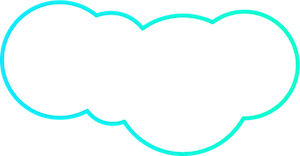
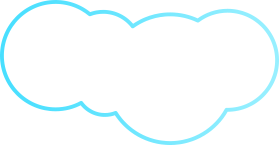
change some images

Changed region(s): [[0.0, 0.0, 1.0, 1.0]]

diff --git a/CoreAnimationDemo/ViewController.swift b/CoreAnimationDemo/ViewController.swift
@@ -33,8 +33,6 @@ class ViewController: UIViewController {
         super.didReceiveMemoryWarning()
         // Dispose of any resources that can be recreated.
     }
-
-    
 }
 
 
@@ -268,37 +266,6 @@ extension ViewController {
             
         }
 
-        
-        
-        
-//        // 下雨暂时考虑动画
-//        let pointCell = CAEmitterCell()
-//        pointCell.name = "point"
-//        pointCell.birthRate = 2.0
-//        pointCell.lifetime = 10.0
-//        pointCell.velocity = 20.0
-//        pointCell.velocityRange = 10
-//        pointCell.yAcceleration = 2
-//        pointCell.alphaSpeed = 10
-//        pointCell.minificationFilterBias = 5.0
-//        //        pointCell.duration = 10.0
-//        pointCell.emissionRange = CGFloat(0.75 * M_PI)
-//        pointCell.spinRange = CGFloat(0.25 * M_PI)
-//        
-//        
-//        pointCell.contents = UIImage(named: "point")!.CGImage
-//        //        pointCell.color = UIColor.init(red: 200, green: 258, blue: 543, alpha: 1.0).CGColor
-//        
-//        //        pointEmitter.shadowOpacity = 1.0
-//        pointEmitter.cornerRadius = 50.0
-//        //        pointCell.enabled = false
-//        //        pointEmitter.shadowOffset = CGSizeMake(0.0, 1.0)
-//        //        pointEmitter.shadowColor = UIColor.redColor().CGColor
-//        pointEmitter.emitterCells = [pointCell]
-//        
-//        self.view.layer.insertSublayer(pointEmitter, atIndex: 0)
-        
-        //        pointCell.kCAEmitterLayerOldestLast
 
     }
     
@@ -306,61 +273,42 @@ extension ViewController {
      cloudy
      */
     func cloudy() {
-//        viewAnimation.layer.position = CGPointMake(10, -10)
-//        viewAnimation.layer.bounds = CGRectMake(0, 0, 300, 156)
-//        viewAnimation.backgroundColor = UIColor.init(patternImage: UIImage(named: "大云")!)
-//        self.view.addSubview(viewAnimation)
-//        
-//        let anim = CABasicAnimation(keyPath: "position")
-//        anim.duration = 2
-//        let fromV = NSValue(CGPoint: CGPointMake(50, 80))
-//        anim.fromValue = fromV
-//        let toV = NSValue(CGPoint: CGPointMake(200, 80))
-//        anim.toValue = toV
-//        anim.delegate = self
-//        anim.removedOnCompletion = false
-//        anim.fillMode = kCAFillModeForwards
-//        viewAnimation.layer.addAnimation(anim, forKey: "translate")
-        
-        //创建方块
+        // 创建云块
         viewAnimation.layer.position = CGPointMake(100, -10)
-        viewAnimation.layer.bounds = CGRectMake(0, 0, 300, 156)
+        viewAnimation.layer.bounds = CGRectMake(0, 0, 279, 145)
         viewAnimation.backgroundColor = UIColor.init(patternImage: UIImage(named: "大云")!)
         self.view.addSubview(viewAnimation)
         
         leftCloudy.layer.position = CGPointMake(150, 80)
-        leftCloudy.layer.bounds = CGRectMake(0, 0, 60, 33)
+        leftCloudy.layer.bounds = CGRectMake(0, 0, 61, 33)
         leftCloudy.backgroundColor = UIColor.init(patternImage: UIImage(named: "左侧云彩")!)
         self.view.addSubview(leftCloudy)
         
         rightCloudy.layer.position = CGPointMake(300, 30)
-        rightCloudy.layer.bounds = CGRectMake(0, 0, 40, 22)
+        rightCloudy.layer.bounds = CGRectMake(0, 0, 33, 19)
         rightCloudy.backgroundColor = UIColor.init(patternImage: UIImage(named: "右侧云彩")!)
         self.view.addSubview(rightCloudy)
         
-        
-        point.layer.position = CGPointMake(self.view.frame.width * 0.5, 150)
-        point.layer.bounds = CGRectMake(0, 0, 10, 10)
+        point.layer.position = CGPointMake(self.view.frame.width * 0.5, 100)
+        point.layer.bounds = CGRectMake(0, 0, 9, 9)
         point.backgroundColor = UIColor.init(patternImage: UIImage(named: "圆点")!)
         self.view.addSubview(point)
-
-        point1.layer.position = CGPointMake(self.view.frame.width * 0.5, 150)
-        point1.layer.bounds = CGRectMake(0, 0, 10, 10)
+        
+        point1.layer.position = CGPointMake(self.view.frame.width * 0.5, 100)
+        point1.layer.bounds = CGRectMake(0, 0, 9, 9)
         point1.backgroundColor = UIColor.init(patternImage: UIImage(named: "圆点")!)
         self.view.addSubview(point1)
-
-        point2.layer.position = CGPointMake(self.view.frame.width * 0.5, 150)
-        point2.layer.bounds = CGRectMake(0, 0, 10, 10)
+        
+        point2.layer.position = CGPointMake(self.view.frame.width * 0.5, 100)
+        point2.layer.bounds = CGRectMake(0, 0, 9, 9)
         point2.backgroundColor = UIColor.init(patternImage: UIImage(named: "圆点")!)
         self.view.addSubview(point2)
-
-        point3.layer.position = CGPointMake(self.view.frame.width * 0.5, 150)
-        point3.layer.bounds = CGRectMake(0, 0, 10, 10)
+        
+        point3.layer.position = CGPointMake(self.view.frame.width * 0.5, 100)
+        point3.layer.bounds = CGRectMake(0, 0, 9, 9)
         point3.backgroundColor = UIColor.init(patternImage: UIImage(named: "圆点")!)
         self.view.addSubview(point3)
 
-
-        
         //播放动画
         playAnimation()
         
@@ -490,13 +438,10 @@ extension ViewController {
     func snow() {
         let pointEmitter = CAEmitterLayer()
         pointEmitter.emitterPosition = CGPointMake(120, -120)
-        
-        
-        pointEmitter.emitterSize = CGSizeMake(self.view.frame.width, 0)
+                pointEmitter.emitterSize = CGSizeMake(self.view.frame.width, 0)
         pointEmitter.emitterMode = kCAEmitterLayerSurface
         pointEmitter.emitterShape = kCAEmitterLayerOldestLast
         
-        // 下雨暂时考虑动画
         let snow1Cell = CAEmitterCell()
         snow1Cell.name = "point"
         snow1Cell.birthRate = 1
@@ -548,7 +493,7 @@ extension ViewController {
         snow4Cell.emissionRange = CGFloat(M_PI)
         snow4Cell.spinRange = CGFloat(M_PI)
         snow4Cell.contents = UIImage(named: "snow4")!.CGImage
-
+        
         pointEmitter.emitterCells = [snow1Cell,snow2Cell,snow3Cell,snow4Cell]
         
         self.view.layer.insertSublayer(pointEmitter, atIndex: 0)
@@ -562,79 +507,75 @@ extension ViewController {
     //rainy
     func rain() {
         let rainEmitter = CAEmitterLayer()
-        rainEmitter.emitterPosition = CGPointMake(self.view.frame.width + 200, -110)
+        rainEmitter.emitterPosition = CGPointMake(self.view.frame.width, -100)
         rainEmitter.emitterSize = CGSizeMake(10, 10)
         rainEmitter.emitterMode = kCAEmitterLayerSurface
         rainEmitter.emitterShape = kCAEmitterLayerOldestLast
-
+        
         
         let rain1Cell = CAEmitterCell()
         rain1Cell.name = "point"
-        rain1Cell.birthRate = 2
-        rain1Cell.lifetime = 1
-        rain1Cell.velocity = 100.0
+        rain1Cell.birthRate = 0.7
+        rain1Cell.lifetime = 2.0
+        rain1Cell.velocity = 50.0
         rain1Cell.velocityRange = 40
-        rain1Cell.xAcceleration = -100
-        rain1Cell.yAcceleration = 350
+        rain1Cell.xAcceleration = -50
+        rain1Cell.yAcceleration = 100
         rain1Cell.alphaSpeed = 2
         rain1Cell.emissionLatitude = CGFloat(-3 * M_PI)
         rain1Cell.contents = UIImage(named: "rain")!.CGImage
         
         let rain2Cell = CAEmitterCell()
         rain2Cell.name = "point"
-        rain2Cell.birthRate = 2
-        rain2Cell.lifetime = 1
-        rain2Cell.velocity = 200.0
+        rain2Cell.birthRate = 0.78
+        rain2Cell.lifetime = 2.0
+        rain2Cell.velocity = 10.0
         rain2Cell.velocityRange = 40
-        rain2Cell.xAcceleration = -100
-        rain2Cell.yAcceleration = 350
+        rain2Cell.xAcceleration = -50
+        rain2Cell.yAcceleration = 100
         rain2Cell.alphaSpeed = 2
         rain2Cell.emissionLatitude = CGFloat(-3 * M_PI)
         rain2Cell.contents = UIImage(named: "rain2")!.CGImage
-
+        
         
         let rain3Cell = CAEmitterCell()
         rain3Cell.name = "point"
         rain3Cell.beginTime = 3.0
-        rain3Cell.birthRate = 4
-        rain3Cell.lifetime = 1
-        rain3Cell.velocity = 300.0
+        rain3Cell.birthRate = 0.5
+        rain3Cell.lifetime = 2.0
+        rain3Cell.velocity = 80.0
         rain3Cell.velocityRange = 40
-        rain3Cell.xAcceleration = -100
-        rain3Cell.yAcceleration = 350
+        rain3Cell.xAcceleration = -50
+        rain3Cell.yAcceleration = 100
         rain3Cell.alphaSpeed = 2
         rain3Cell.emissionLatitude = CGFloat(-3 * M_PI)
         rain3Cell.contents = UIImage(named: "rain3")!.CGImage
-
+        
         
         let rain4Cell = CAEmitterCell()
         rain4Cell.name = "point"
-        rain4Cell.birthRate = 5
-        rain4Cell.lifetime = 1
-        rain4Cell.velocity = 400.0
+        rain4Cell.birthRate = 0.5
+        rain4Cell.lifetime = 2.0
+        rain4Cell.velocity = 90.0
         rain4Cell.velocityRange = 40
-        rain4Cell.xAcceleration = -100
-        rain4Cell.yAcceleration = 350
+        rain4Cell.xAcceleration = -50
+        rain4Cell.yAcceleration = 100
         rain4Cell.alphaSpeed = 2
         rain4Cell.emissionLatitude = CGFloat(-3 * M_PI)
         rain4Cell.contents = UIImage(named: "rain4")!.CGImage
-
+        
         
         let rain5Cell = CAEmitterCell()
         rain5Cell.name = "point"
-        rain5Cell.birthRate = 6
-        rain5Cell.lifetime = 1
-        rain5Cell.velocity = 500.0
+        rain5Cell.birthRate = 0.5
+        rain5Cell.lifetime = 2.0
+        rain5Cell.velocity = 60.0
         rain5Cell.velocityRange = 40
-        rain5Cell.xAcceleration = -100
-        rain5Cell.yAcceleration = 350
+        rain5Cell.xAcceleration = -50
+        rain5Cell.yAcceleration = 100
         rain5Cell.alphaSpeed = 2
         rain5Cell.emissionLatitude = CGFloat(-3 * M_PI)
         rain5Cell.contents = UIImage(named: "rain5")!.CGImage
-
-        
-
-        
         rainEmitter.emitterCells = [rain1Cell,rain2Cell,rain3Cell,rain4Cell,rain5Cell]
         self.view.layer.insertSublayer(rainEmitter, atIndex: 0)
     }
